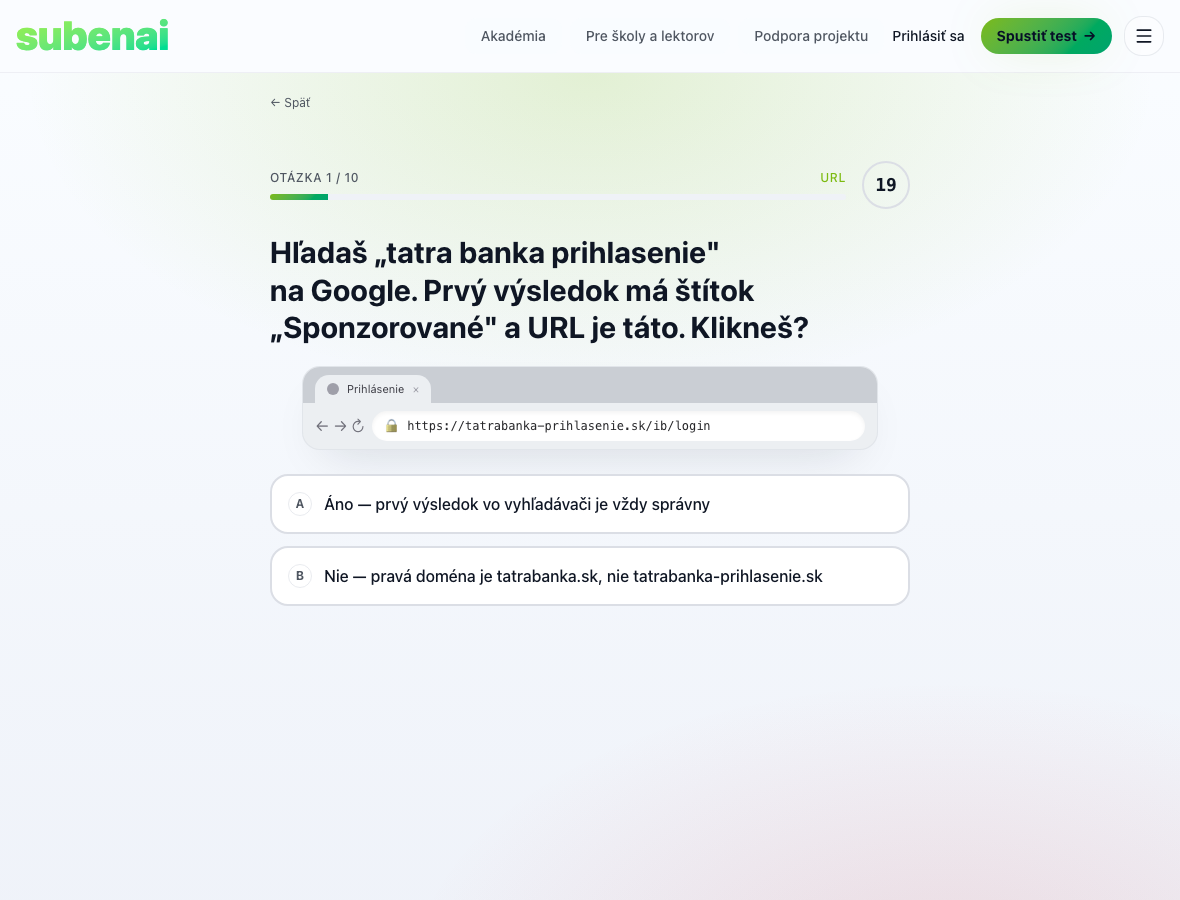
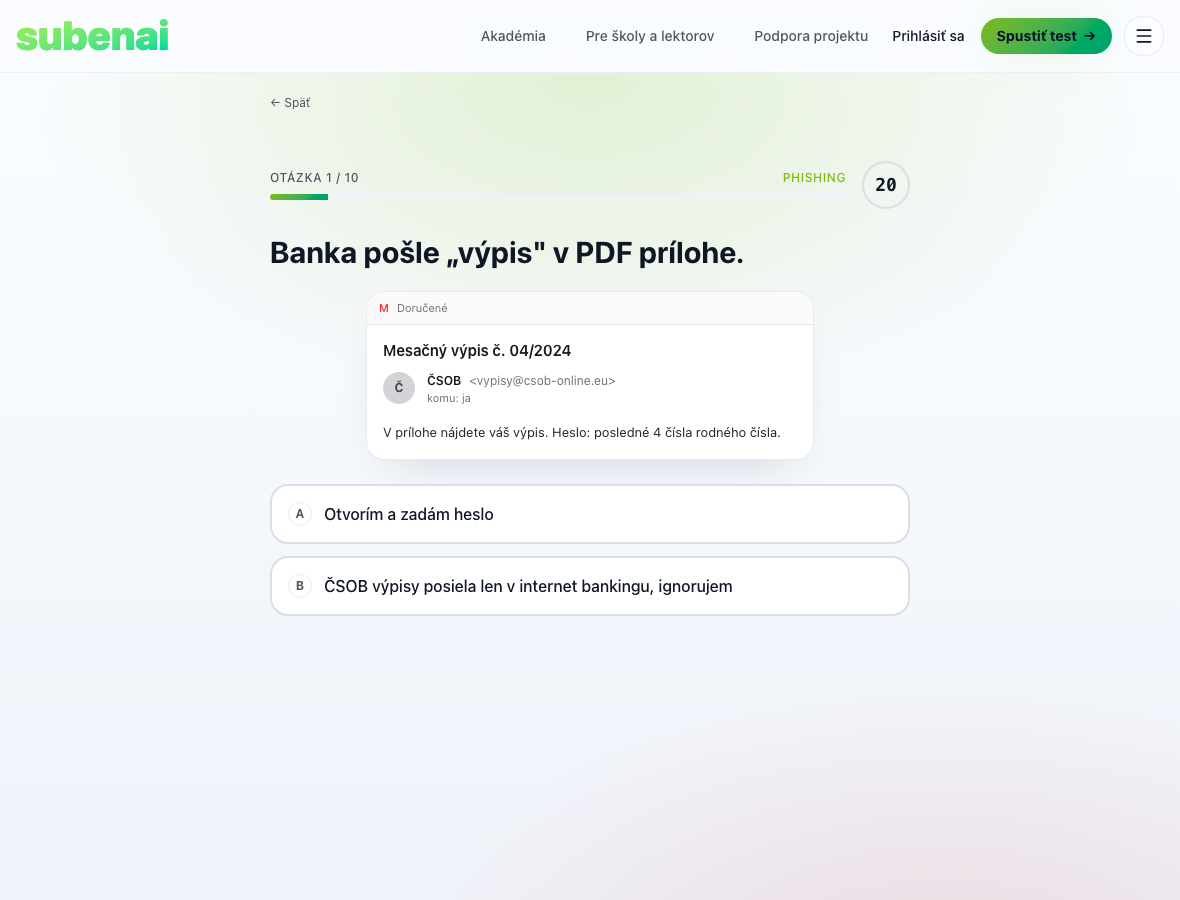
docs(E57): screenshots for intro, courses example, packs, contact
Capture + embed (light+dark, #themed, with contextual prose):
- 'Čo je subenai' — the home hero
- 'Kurzy' — a realistic lesson example (a phishing-email mockup with the
  fake domain) so the reader sees what 'príklady z praxe' means
- 'Testovanie pre firmy' — the /tests catalog with industry filters
- 'Kontakt a podpora' — the contact form (fields + attachments)

10 docs now carry theme-aware screenshots placed at the contextually right
spot. lint 0/0, tsc clean, tests green, build ✓.

Changed region(s): [[0.2136, 0.2489, 0.7627, 0.6844], [0.6712, 0.1867, 0.7627, 0.2178]]

diff --git a/src/content/docs/index.ts b/src/content/docs/index.ts
@@ -19,6 +19,11 @@ interaktívne testy, ktoré preveria, ako rozpoznáš phishing, podvodné SMS,
 falošné e-shopy či investičné scamy — a vzdelávacie kurzy, ktoré ťa naučia
 brániť sa.
 
+![Úvodná stránka subenai s výzvou „Otestuj sa skôr, než ťa otestuje podvodník", tlačidlom „Spustiť test" a kartami so štatistikami (počet otázok, časový limit, zadarmo).](/img/docs/home.png#themed)
+
+Hneď z úvodnej stránky [spustíš rýchly test](/docs/ako-spravit-test) jedným
+tlačidlom — bez registrácie.
+
 **Pre koho je to:**
 
 - **Verejnosť** — sprav si rýchly test a zisti svoje slabé miesta.
@@ -83,7 +88,14 @@ Každý kurz má **príklady z praxe**, **červené vlajky** (na čo si dať poz
 **checklist**, čo robiť a čomu sa vyhnúť. Sú zadarmo a dostupné bez
 prihlásenia.
 
-Všetky kurzy aj články nájdeš na jednom mieste v **[Akadémii](/academy)**:
+Príklady sú **realistické ukážky** — napríklad presná napodobenina podvodného
+e-mailu aj s nenápadnou falošnou doménou, ktorú sa učíš odhaliť:
+
+![Ukážka z kurzu Email phishing: realistický podvodný e-mail „Bezpečnostné upozornenie — overte sa do 24 hodín" od „Slovenská sporiteľňa" z falošnej domény slsp-bezpecnost.online, s nátlakovým textom a tlačidlom „Overiť účet".](/img/docs/lesson-example.png#themed)
+
+Anglické pojmy (phishing, scam…) majú v texte slovenské vysvetlenie v
+zátvorke. Všetky kurzy aj články nájdeš na jednom mieste v
+**[Akadémii](/academy)**:
 
 ![Stránka Akadémia: hore prepínač „Všetko / Kurzy / Články" a pole na vyhľadávanie, pod ním mriežka kariet — každá karta ukazuje, či ide o kurz alebo článok, jeho obtiažnosť a odhadovaný čas čítania.](/img/docs/academy.png#themed)
 
@@ -156,11 +168,14 @@ zameranými na hrozby ich oboru — napríklad e-shop, gastro, IT, zdravotníctv
 či financie.
 
 Každý balík obsahuje reálne situácie relevantné pre dané odvetvie. Verejné
-balíky nájdeš v sekcii **Testy**; po výbere balíka dostaneš test rovnako ako
-pri rýchlom teste, len s cielenými otázkami.
+balíky nájdeš v sekcii **[Testy](/tests)**; po výbere balíka dostaneš test
+rovnako ako pri rýchlom teste, len s cielenými otázkami.
 
-**Tip:** výsledky pomáhajú identifikovať, kde tím potrebuje doškolenie — na to
-nadväzujú kurzy.`,
+![Sekcia Testy: nadpis „Otestuj svoju brànžu", odznaky „Anonymne / 5 minút / Zadarmo" a filter „Pre koho je test" s odvetviami (Školy, Zdravotníctvo, Heslá a 2FA, Seniori, Študenti, E-shop, Gastro, IT…), pod ním mriežka kariet s balíkmi testov.](/img/docs/test-packs.png#themed)
+
+Hore filtruješ balíky **podľa odvetvia a publika**; každá karta je jeden
+pripravený test. **Tip:** výsledky pomáhajú identifikovať, kde tím potrebuje
+doškolenie — na to nadväzujú [kurzy](/docs/kurzy).`,
   },
   {
     slug: "vlastne-testy",
@@ -369,11 +384,17 @@ Máš tiež právo obrátiť sa na **Úrad na ochranu osobných údajov SR**.`,
     description: "Ako nás kontaktovať a získať pomoc.",
     order: 16,
     category: "Projekt a súkromie",
-    body: `Ak potrebuješ pomoc alebo máš otázku, napíš nám cez **kontaktný
-formulár** dostupný v pätičke webu. Môžeš priložiť aj snímky obrazovky.
+    body: `Ak potrebuješ pomoc alebo máš otázku, napíš nám cez **[kontaktný
+formulár](/contact-form)** dostupný aj v pätičke webu:
 
-Prihlásení používatelia majú podporu priamo v aplikácii a vidia stav svojich
-požiadaviek.`,
+![Kontaktný formulár „Kontaktuj nás" s poľami Téma, Kategória, Správa, E-mail a nepovinné Meno, možnosťou priložiť prílohy (PNG/JPEG/PDF) a tlačidlom „Odoslať žiadosť".](/img/docs/contact.png#themed)
+
+Vyplníš **tému, kategóriu a správu**, uvedieš **e-mail** (na odpoveď) a
+voliteľne **priložíš snímky obrazovky** podozrivej správy. Odpovedáme spravidla
+do dvoch pracovných dní.
+
+Prihlásení používatelia majú podporu priamo v aplikácii a vidia **stav svojich
+požiadaviek**.`,
   },
   {
     slug: "zmeny",

diff --git a/e2e/specs/docs/capture-docs-screenshots.spec.ts b/e2e/specs/docs/capture-docs-screenshots.spec.ts
@@ -9,7 +9,11 @@ import { AppAccountProfilePage } from "../../poms/app/AppAccountProfilePage";
 import { LoginPage } from "../../poms/auth/LoginPage";
 import { QuizFlowPage } from "../../poms/quiz/QuizFlowPage";
 import { AcademyIndexPage } from "../../poms/academy/AcademyIndexPage";
+import { AcademyEntryPage } from "../../poms/academy/AcademyEntryPage";
 import { ScamChatPage } from "../../poms/scam-chat/ScamChat";
+import { HomePage } from "../../poms/quiz/HomePage";
+import { TestsIndexPage } from "../../poms/quiz/TestsDirectoryPage";
+import { KontaktPage } from "../../poms/support/KontaktPage";
 
 // E57 — generates the documentation screenshots WITHOUT prod writes, a
 // password, or Docker: the existing e2e mock layer (mocked Supabase auth +
@@ -85,6 +89,37 @@ test.describe("docs screenshots (mocked surfaces, light + dark)", () => {
     await shootBothThemes(page, "pomocnik", async () => {
       await chat.input.waitFor({ state: "visible" });
     });
+
+    const home = new HomePage(page);
+    await page.goto("/");
+    await shootBothThemes(page, "home", async () => {
+      await home.heroHeading.waitFor({ state: "visible" });
+    });
+
+    const packs = new TestsIndexPage(page);
+    await page.goto("/tests");
+    await shootBothThemes(page, "test-packs", async () => {
+      await packs.grid.waitFor({ state: "visible" });
+    });
+
+    // A lesson's realistic scam mockup ("example z praxe") in context.
+    const lesson = new AcademyEntryPage(page);
+    await page.goto("/academy/email-phishing");
+    await shootBothThemes(page, "lesson-example", async () => {
+      await lesson.root.waitFor({ state: "visible" });
+      await lesson.visual.first().scrollIntoViewIfNeeded();
+    });
+
+    const contact = new KontaktPage(page);
+    await page.goto("/contact-form");
+    await shootBothThemes(
+      page,
+      "contact",
+      async () => {
+        await contact.root.waitFor({ state: "visible" });
+      },
+      true,
+    );
   });
 
   test("signed-in — account profile, DSR form", async ({ context, page }) => {
